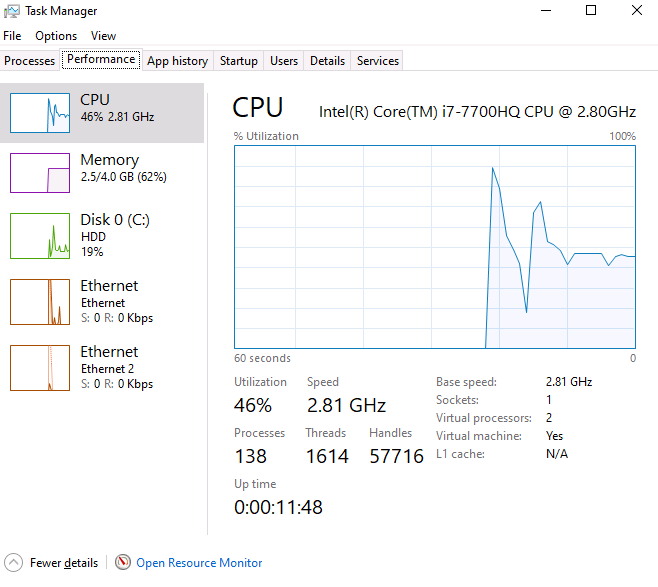
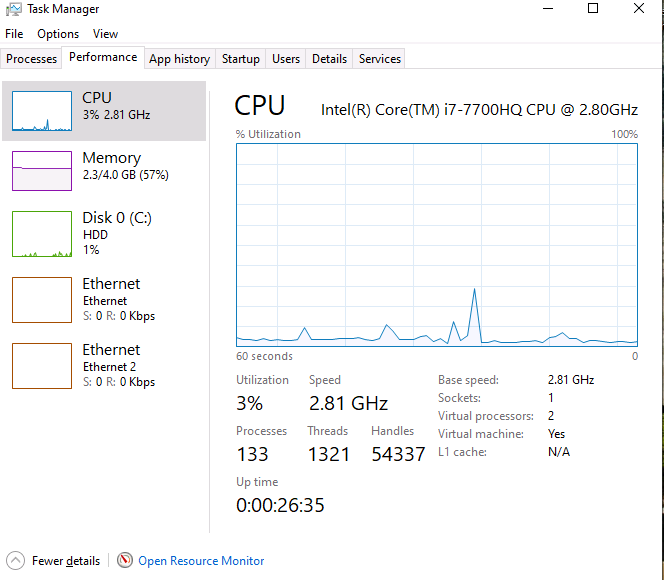
Red Team Runbook complete

diff --git a/incident-response/simulations/dos-attack-simulation.md b/incident-response/simulations/dos-attack-simulation.md
@@ -37,7 +37,7 @@ Before launching the attack, record the normal state of the Windows 10 target so
 
 ![Task Manager CPU and Network Usage](assets/dos-1.png)
 
-Currently the device is settled at around a 46% usage and the network usage is around
+Currently the device is settled at around a 3% usage and the network usage is not very high at all with the occastional communication with the wazuh server.
 
 ![WireShark Showing Current Network Packets](assets/dos-2.png)
 
@@ -48,7 +48,63 @@ On Wireshark you can see that currently the only packets that are travelling thr
 On the Kali attacker, run:
 
 ```bash
-hping3 -S --flood -V -p 80 <windows-10-ip>
+hping3 -S --flood -V -p 80 <target-ip>
 ```
+
+**What each flag does:**
+
+`-S` — Sets the SYN flag on every packet (initiating a TCP handshake that will never complete)
+
+`--flood` — Sends packets as fast as possible without waiting for replies
+
+`-V` — Verbose output so we can see what's being sent
+
+`-p 80` — Targets port 80 (HTTP). This could be any open port.
+
+### Step 3: Observe the Impact
+
+**On the Windows 10 target:**
+
+While the attack is running, check Task Manager again. CPU usage and network activity should spike significantly compared to the baseline.
+
+Switch to Wireshark — the capture should now show a flood of SYN packets all originating from the Kali attacker's IP address.
+
+![CPU and Network usage after the attack](assets/dos-3.png)
+
+As you can see CPU usage spiked all the way to 100% while ethernet 2 (host-only network) showed 29.3 Mbps of received packets.
+
+![WireSHark Showing the large amount of TCP requests](assets/dos-4.png)
+
+From Wireshark you can notice the large amount of TCP packets being sent from the IP of the Kali attacker.
+
+### Step 4: Stop the Attack
+
+Press `Ctrl+C` on the Kali terminal to stop hping3. Note the total number of packets sent (hping3 displays this on exit).
+
+![The number of packets sent](assets/dos-5.png)
+
+As you can see 50156393 packets were sent to the windows 10 machine. 
+
+### Phase 2: Detection & Analysis
+ 
+**How would this be detected in a real environment?**
+ 
+In a production environment, a DoS attack might be noticed through:
+- Users reporting that services are slow or unreachable
+- Network monitoring tools alerting on unusual bandwidth spikes
+- SIEM alerts triggered by a high volume of connection attempts from a single source
+- System performance degradation visible in monitoring dashboards
+**In this lab:**
+ 
+**Wireshark analysis:**
+ 
+Filter the Wireshark capture to show only SYN packets from the attacker:
+ 
+```
+tcp.flags.syn == 1 && ip.src == <kali-ip>
+```
+ 
+This should show thousands of SYN packets with no corresponding ACK completions — a clear signature of a SYN flood.
+
 
 
